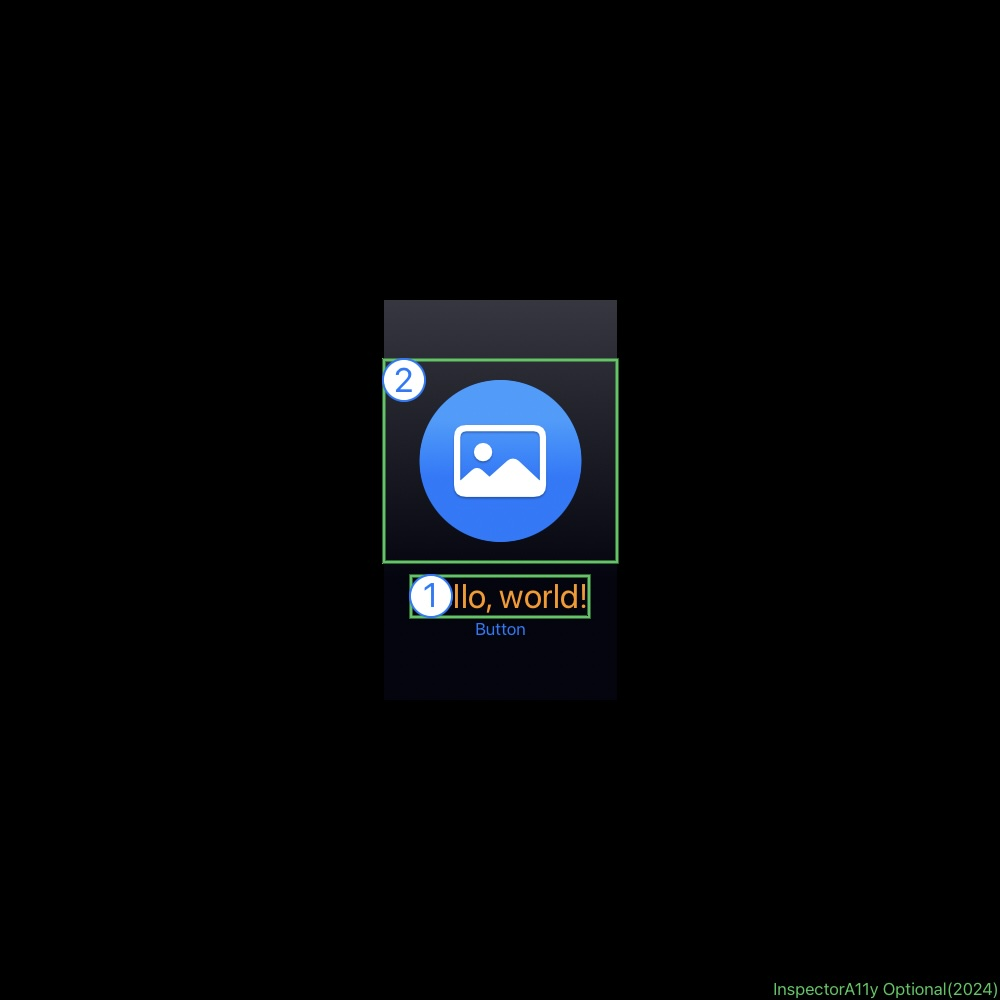
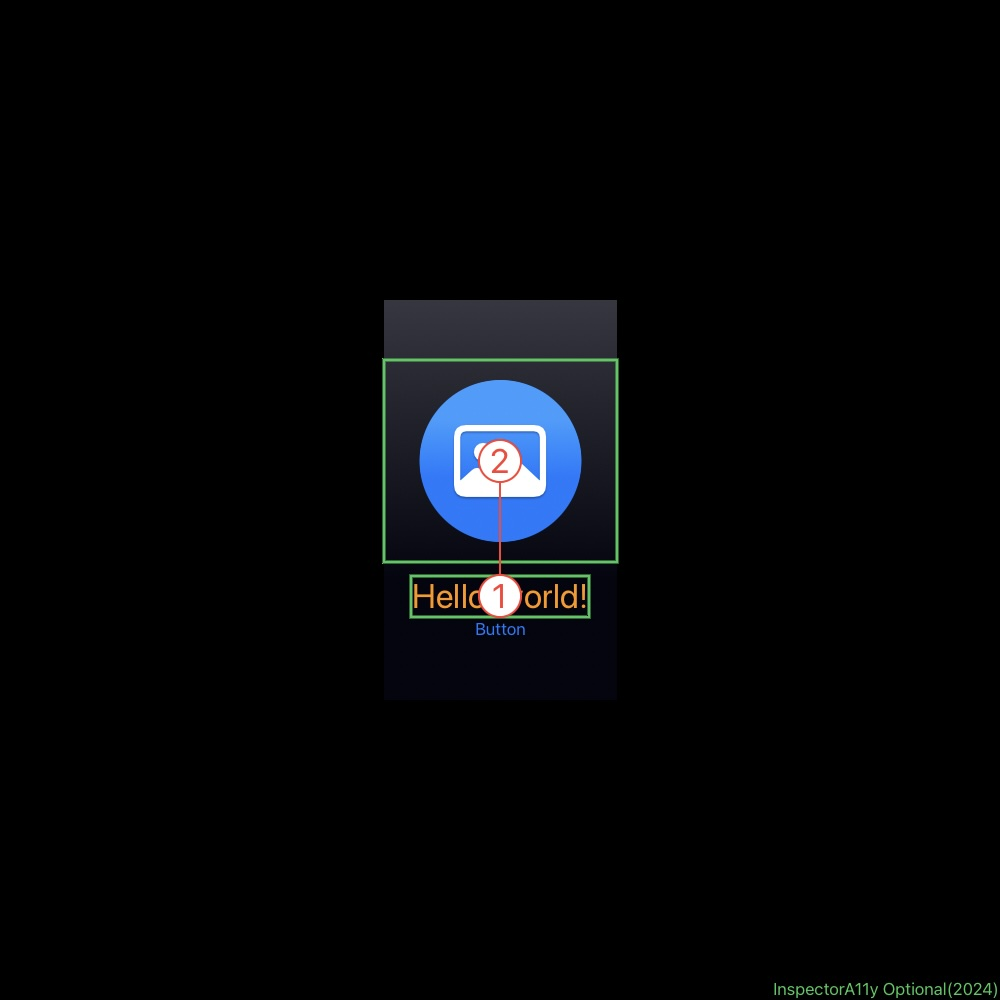
chore: Draw lines between tab order identifiers

Changed region(s): [[0.403, 0.434, 0.527, 0.62], [0.372, 0.341, 0.434, 0.403]]

diff --git a/Sources/InspectorA11yCore/Generator.swift b/Sources/InspectorA11yCore/Generator.swift
@@ -55,15 +55,42 @@ extension Generator: View {
 
   private var tabOrder: some View {
     ZStack(alignment: .topLeading) {
+
+      // Draw lines connecting circles
+      Path { path in
+          let sortedRects = rects.sorted(by: { lhs, rhs in
+              lhs.key > rhs.key
+          })
+
+          // Iterate through the sorted rects to draw lines
+          for (index, element) in sortedRects.enumerated() {
+              let rect = element.value.rect
+              let centerPoint = CGPoint(
+                  x: rect.midX + 500.0 - (imageSize.width / 2),
+                  y: rect.midY + 500.0 - (imageSize.height / 2)
+              )
+
+              if index == 0 {
+                  path.move(to: centerPoint) // Start at the first circle
+              } else {
+                  path.addLine(to: centerPoint) // Draw a line to the next circle
+                  path.move(to: centerPoint) // Move the path to the next starting point
+              }
+          }
+      }
+      .stroke(Color.red, lineWidth: 2) // Customize the line color and width
+
       ForEach(rects.sorted(by: { lhs, rhs in
         lhs.key > rhs.key
       }), id: \.key) { key, itemData in
 
         let rect = itemData.rect
 
-        TabOrderView(order: itemData.order, realOrder: itemData.order)
-          .offset(x: rect.minX, y: rect.minY)
+        TabOrderView(order: itemData.order, realOrder: itemData.order, color: .red)
+          .frame(width: 40, height: 40) // Size of the circle
+          .offset(x: rect.midX, y: rect.midY)
           .offset(x: 500.0-(imageSize.width/2), y: 500.0-(imageSize.height/2))
+          .offset(x: -20, y: -20)
 
       }
     }

diff --git a/Sources/InspectorA11yCore/TabOrderView.swift b/Sources/InspectorA11yCore/TabOrderView.swift
@@ -7,23 +7,24 @@ import SwiftUI
 struct TabOrderView {
   let order: Int
   let realOrder: Int
+  let color: Color
 }
 
 extension TabOrderView: View {
   var body: some View {
     Circle()
-      .stroke(Color.blue, lineWidth: 4)
+      .stroke(color, lineWidth: 4)
       .fill(Color.white)
-      .frame(width: 40, height: 40) // Size of the circle
       .overlay(
         Text("\(order)")
           .font(.largeTitle) // Font size
-          .foregroundColor(.blue) // Text color
+          .foregroundColor(color) // Text color
       )
   }
 }
 
 #Preview {
-  TabOrderView(order: 1, realOrder: 1000)
+  TabOrderView(order: 1, realOrder: 1000, color: .blue)
+    .frame(width: 40, height: 40) // Size of the circle
     .background(Color.red)
 }
